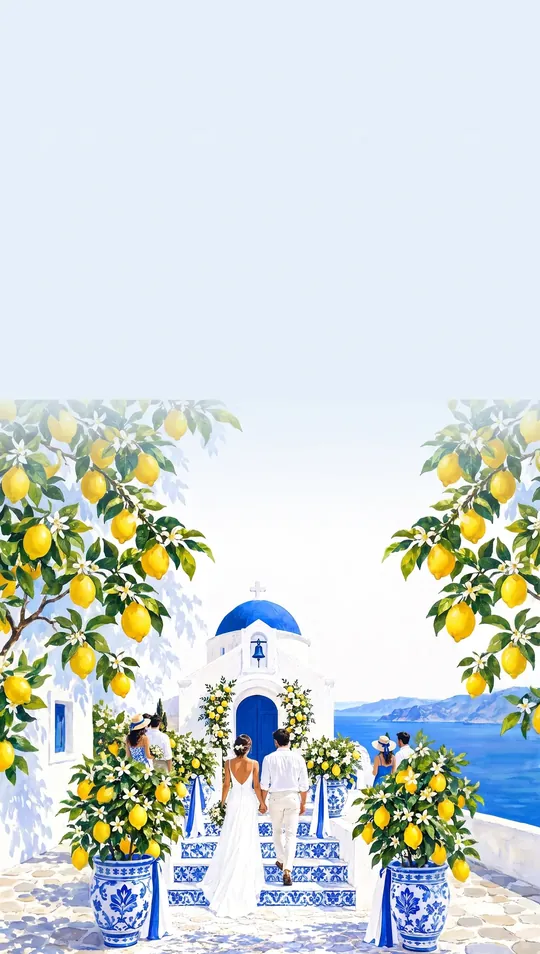
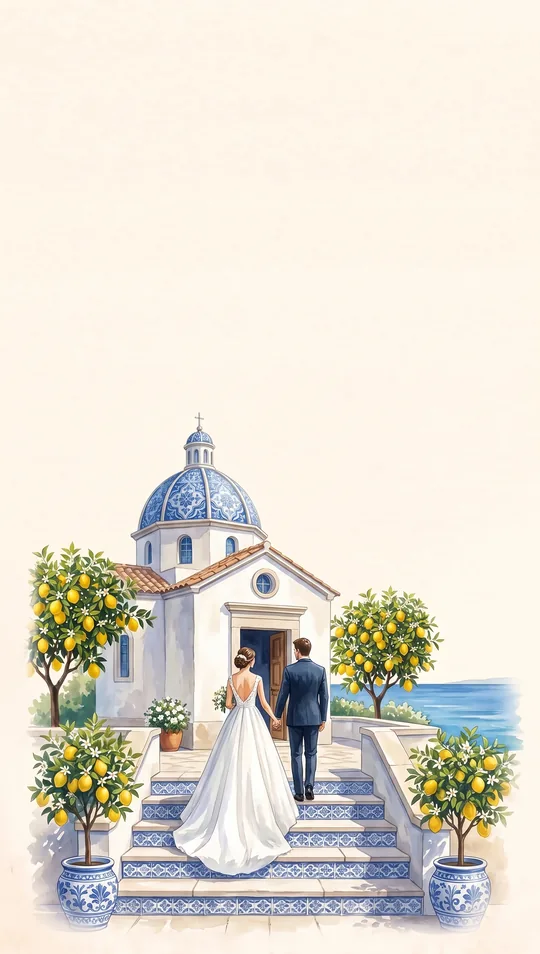
Décors sans zoom ni coupure : l'image garde la taille de l'écran, quatre décors redessinés d'un seul tenant
Le cadre de chaque scène (plus haut que l'écran pour le fondu) agrandissait l'image d'environ 1,8× : fitBg() et cpLayout() dimensionnent maintenant l'image sur l'écran et remplissent la bande de fondu par sa première bande étirée. Azulejos 1 et 2, Gravure 4 et Pop 4 n'ont plus de coupure droite. Aperçu : plus de ligne blanche entre deux écrans ; compte à rebours à la fin par défaut. Images en ?v=4.

Claude-Session: https://claude.ai/code/session_01KTckPsB1UKNX1GK3a7Mxgg

diff --git a/business/landing/index.html b/business/landing/index.html
@@ -366,8 +366,10 @@
   .cp-bgs{position:absolute;left:0;right:0;top:0;z-index:0;background:#111}
   .cp-bg{position:absolute;left:0;right:0}
   .cp-bg i{position:sticky;top:0;display:block;width:100%;height:100%;background:center/cover no-repeat}
+  /* comme le moteur (.bg::before) : la première bande de l'image, étirée, remplit la bande de fondu ; l'image garde la taille de l'écran */
+  .cp-bg i::before{content:'';position:absolute;left:0;right:0;top:0;height:var(--strip,0px);background:var(--img) center top/var(--bs,cover) no-repeat;transform:scaleY(-1)}
   .cp-phone .pv-scroll{position:absolute;inset:0;z-index:1}
-  .cp-phone .pv-sc{padding-top:14%;background:none;will-change:opacity,transform;z-index:1}
+  .cp-phone .pv-sc{padding-top:14%;background:none;will-change:opacity,transform;z-index:1;border-top:0} /* sans la bordure des sections de la vitrine : elle traçait une ligne entre deux écrans */
   .cp-phone .pv-sc .nm{margin:14px 0 10px}
   .cp-phone .pv-sc .tx{font-size:17px}
   .cd{display:flex;justify-content:center;gap:16px;margin-top:24px}
@@ -1002,7 +1004,7 @@
   document.getElementById('contGrid').innerHTML=LONGS.map(l=>`<a class="cont" href="/d/${l.slug}/" target="_blank" rel="noopener"><div class="pic"><img src="img/long/${l.k}/thumb.webp" alt="${esc('Le faire-part '+THEMES[l.k].name+' : '+l.alt)}" loading="lazy" width="480" height="768"></div><div class="txt"><b>${esc(THEMES[l.k].name)}</b><span>${esc(l.couple+' · '+l.desc)}</span><em>Ouvrir l'exemple →</em></div></a>`).join('');
   const CREAS=LONGS.map(l=>{ const t=THEMES[l.k]; return Object.assign({},l,{kind:'long',label:t.name,desc:l.couple+' · '+l.desc,href:'/d/'+l.slug+'/',tag:t.name,font:t.font,size:t.size,italic:t.italic,upper:t.upper,stack:t.stack,img:()=>`img/reel/long-${l.k}.webp`}); });
   KEYS.forEach(k=>{ const t=THEMES[k], d=DEMOS0.find(x=>x.theme===k&&x.slug!=='yasmine-karim'&&x.layout!=='long');
-    CREAS.push(Object.assign({},t,{kind:'pages',k,label:t.name,desc:(t.style!==t.name?t.style+' · ':'')+t.short,href:d?'/d/'+d.slug+'/':'',tag:t.name,img:i=>`img/themes/${k}-${i}.webp?v=3`})); });
+    CREAS.push(Object.assign({},t,{kind:'pages',k,label:t.name,desc:(t.style!==t.name?t.style+' · ':'')+t.short,href:d?'/d/'+d.slug+'/':'',tag:t.name,img:i=>`img/themes/${k}-${i}.webp?v=4`})); });
   // notre faire-part reel : les vrais lieux du couple, peints et animes (demo Yasmine & Karim)
   CREAS.push({kind:'pages',k:'yk',label:'Yasmine & Karim',desc:'Leurs vrais lieux, peints et animés : mairie, salle, ville',href:'/d/yasmine-karim/',tag:'Lieux réels peints',
     couple:'Yasmine & Karim',font:'"Great Vibes",cursive',color:'#2c2114',ey:'#8a6a2c',tx:'#5a4632',light:true,img:i=>`img/reel/yk-${i}.webp`,
@@ -1052,7 +1054,7 @@
     models.appendChild(m); };
   const yk=DEMOS.find(d=>d.slug==='yasmine-karim');
   if(yk) card(yk,THEMES.nuits,'Notre faire-part réel','Peinture','Lieux réels peints et animés',yk.thumb,'');
-  KEYS.forEach(k=>{ const t=THEMES[k], d=DEMOS.find(x=>x.theme===k&&x.slug!=='yasmine-karim'&&x.layout!=='long'); if(d) card(d,t,t.name,t.style,t.style,`img/themes/${k}-1.webp?v=3`,`img/themes/${k}-2.webp?v=3`); });
+  KEYS.forEach(k=>{ const t=THEMES[k], d=DEMOS.find(x=>x.theme===k&&x.slug!=='yasmine-karim'&&x.layout!=='long'); if(d) card(d,t,t.name,t.style,t.style,`img/themes/${k}-1.webp?v=4`,`img/themes/${k}-2.webp?v=4`); });
   const sm=document.createElement('div'); sm.className='model'; sm.dataset.style='*'; sm.innerHTML='<div class="pic"><span class="soon">Votre thème</span></div><div class="meta"><div><h3>Sur-mesure</h3><p class="style">Couture</p><p>Un univers rien qu\'à vous.</p></div></div>'; models.appendChild(sm);
   const STYLES=['Tous',...new Set(KEYS.map(k=>THEMES[k].style))];
   STYLES.forEach((st,i)=>{ const b=document.createElement('button'); b.type='button'; b.className='chip'; b.textContent=st; b.setAttribute('aria-pressed',i===0);
@@ -1062,7 +1064,7 @@
   /* composer : prenoms, date, style, palette, police -> apercu en direct */
   const PALS=[{id:'or',name:'Or & ivoire',c:'#b8975a'},{id:'sauge',name:'Sauge',c:'#7d9275'},{id:'terracotta',name:'Terracotta',c:'#c0643f'},{id:'nuit',name:'Bleu nuit',c:'#2e4a7d'},{id:'rose',name:'Rose poudré',c:'#d59aa3'}];
   const FONTS=[{id:'theme',name:'Du thème'},{id:'script',name:'Calligraphie',css:'"Great Vibes",cursive'},{id:'classique',name:'Classique',css:'"Playfair Display",Georgia,serif',italic:true},{id:'moderne',name:'Moderne',css:'"Jost",sans-serif',upper:true},{id:'deco',name:'Art déco',css:'"Limelight",serif'}];
-  const C={k:'conte',pal:'or',font:'theme',op:'env',cd:'debut',rvl:'non',x:new Set(),
+  const C={k:'conte',pal:'or',font:'theme',op:'env',cd:'fin',rvl:'non',x:new Set(),
     ev:[{name:'La cérémonie',time:'15:00',place:'Mairie du 11e',bg:'scene',lieu:'mairie'},{name:'La fête',time:'19:30',place:'Domaine des Roses',bg:'scene',lieu:'salle'}]};
   // les lieux déjà dessinés dans chaque thème (img/lieux/<thème>-<lieu>.webp) ; « fond » = le décor des écrans simples
   const LIEUX=[{id:'mairie',name:'Mairie'},{id:'eglise',name:'Église'},{id:'salle',name:'Salle'},{id:'jardin',name:'Jardin'},{id:'plage',name:'Plage'}];
@@ -1120,7 +1122,10 @@
     bgs.style.height=sc.scrollHeight+'px';
     cpRuns.forEach((r,ri)=>{ const L=layers[ri]; if(!L) return; const B=L.firstElementChild, top=secs[r.a].offsetTop, bot=secs[r.b].offsetTop+secs[r.b].offsetHeight;
       const t=ri>0?top-ov:top; L.style.top=t+'px'; L.style.height=(bot-t)+'px'; B.style.height=(ri>0?h+ov:h)+'px'; B.style.top=(ri>0?-ov:0)+'px';
-      const m=ri>0?`linear-gradient(to bottom,transparent 0,#000 ${ov}px)`:''; B.style.webkitMaskImage=m; B.style.maskImage=m; });
+      const m=ri>0?`linear-gradient(to bottom,transparent 0,#000 ${ov}px)`:''; B.style.webkitMaskImage=m; B.style.maskImage=m;
+      // taille de l'écran, pas du cadre agrandi (sinon zoom ~1,8×) : même calcul que fitBg() dans invite.js
+      const bw=Math.ceil(Math.max(sc.clientWidth,h*.566)), y=Math.round((ri>0?ov:0)+(h-bw/.566)/2);
+      B.style.backgroundSize=bw+'px auto'; B.style.backgroundPosition=`center ${y}px`; B.style.setProperty('--bs',`${bw}px ${Math.round(Math.max(1,y)/.015)}px`); B.style.setProperty('--strip',Math.max(0,y)+'px'); });
   }
   addEventListener('resize',cpLayout); addEventListener('load',cpLayout);
   // défilement libre, sans calage ni fondu des textes : comme le vrai faire-part (invite.js)
@@ -1151,7 +1156,7 @@
     const page=(img,mode,inner,extra)=>{ const dk=mode==='dark', lt=t.light&&!dk;
       const c={nm:lt?t.color:'#fff',ey:lt?(t.ey||t.color):'#fff',tx:lt?(t.tx||t.color):'#fff'};
       // un numéro = scène du thème ; un nom = lieu de la bibliothèque, ou « fond » pour un écran simple
-      const src=typeof img==='number'?`img/themes/${C.k}-${img}.webp?v=3`:`img/lieux/${C.k}-${img}.webp`;
+      const src=typeof img==='number'?`img/themes/${C.k}-${img}.webp?v=4`:`img/lieux/${C.k}-${img}.webp`;
       return {lt,c,html:h=>`<section class="pv-sc${lt?' light':''}" data-img="${esc(src)}" style="${esc(extra||'')}">${h(c)}</section>`}; };
     const pages=[], rv=C.rvl!=='non'?C.rvl:null;
     // 1. prenoms + date (+ compte a rebours au debut)
@@ -1186,7 +1191,7 @@
     const sc=$('cpScroll'), st=sc.scrollTop; sc.innerHTML='<div class="cp-bgs" id="cpBgs" aria-hidden="true"></div>'+pages.join(''); sc.scrollTop=st; tick();
     // décors : un cadre par suite de pages qui partagent la même image (comme les « runs » du moteur), image collante dedans
     cpRuns=[]; [...sc.querySelectorAll('.pv-sc')].forEach((s,i)=>{ const r=cpRuns[cpRuns.length-1]; if(r&&r.img===s.dataset.img) r.b=i; else cpRuns.push({img:s.dataset.img,a:i,b:i}); });
-    $('cpBgs').innerHTML=cpRuns.map(r=>`<div class="cp-bg"><i style="background-image:url('${esc(r.img)}')"></i></div>`).join('');
+    $('cpBgs').innerHTML=cpRuns.map(r=>`<div class="cp-bg"><i style="background-image:url('${esc(r.img)}');--img:url('${esc(r.img)}')"></i></div>`).join('');
     cpLayout();
     { const h=sc.querySelector('.cp-rvl'); if(h&&window.SceauReveal) SceauReveal.mount(h,{kind:rv,date:d,pal:p.c,light:t.light&&t.scenes[0][4]!=='dark',scope:h.parentNode}); }
     $('fOpen').value=OPENS.find(o=>o.id===C.op).name; $('fCount').value=COUNTS.find(o=>o.id===C.cd).name; $('fReveal').value=REVEALS.find(o=>o.id===C.rvl).name; if($('cN1').value!==$('cN1').defaultValue||$('cN2').value!==$('cN2').defaultValue) $('fNames').value=n1+' & '+n2; $('fStyle').value=t.name; $('fPal').value=p.name; $('fFont').value=f.name; $('fScreens').value=EXTRAS.filter(x=>C.x.has(x.id)).map(x=>x.name).join(', ');

diff --git a/business/site/index.html b/business/site/index.html
@@ -366,8 +366,10 @@
   .cp-bgs{position:absolute;left:0;right:0;top:0;z-index:0;background:#111}
   .cp-bg{position:absolute;left:0;right:0}
   .cp-bg i{position:sticky;top:0;display:block;width:100%;height:100%;background:center/cover no-repeat}
+  /* comme le moteur (.bg::before) : la première bande de l'image, étirée, remplit la bande de fondu ; l'image garde la taille de l'écran */
+  .cp-bg i::before{content:'';position:absolute;left:0;right:0;top:0;height:var(--strip,0px);background:var(--img) center top/var(--bs,cover) no-repeat;transform:scaleY(-1)}
   .cp-phone .pv-scroll{position:absolute;inset:0;z-index:1}
-  .cp-phone .pv-sc{padding-top:14%;background:none;will-change:opacity,transform;z-index:1}
+  .cp-phone .pv-sc{padding-top:14%;background:none;will-change:opacity,transform;z-index:1;border-top:0} /* sans la bordure des sections de la vitrine : elle traçait une ligne entre deux écrans */
   .cp-phone .pv-sc .nm{margin:14px 0 10px}
   .cp-phone .pv-sc .tx{font-size:17px}
   .cd{display:flex;justify-content:center;gap:16px;margin-top:24px}
@@ -1002,7 +1004,7 @@
   document.getElementById('contGrid').innerHTML=LONGS.map(l=>`<a class="cont" href="/d/${l.slug}/" target="_blank" rel="noopener"><div class="pic"><img src="img/long/${l.k}/thumb.webp" alt="${esc('Le faire-part '+THEMES[l.k].name+' : '+l.alt)}" loading="lazy" width="480" height="768"></div><div class="txt"><b>${esc(THEMES[l.k].name)}</b><span>${esc(l.couple+' · '+l.desc)}</span><em>Ouvrir l'exemple →</em></div></a>`).join('');
   const CREAS=LONGS.map(l=>{ const t=THEMES[l.k]; return Object.assign({},l,{kind:'long',label:t.name,desc:l.couple+' · '+l.desc,href:'/d/'+l.slug+'/',tag:t.name,font:t.font,size:t.size,italic:t.italic,upper:t.upper,stack:t.stack,img:()=>`img/reel/long-${l.k}.webp`}); });
   KEYS.forEach(k=>{ const t=THEMES[k], d=DEMOS0.find(x=>x.theme===k&&x.slug!=='yasmine-karim'&&x.layout!=='long');
-    CREAS.push(Object.assign({},t,{kind:'pages',k,label:t.name,desc:(t.style!==t.name?t.style+' · ':'')+t.short,href:d?'/d/'+d.slug+'/':'',tag:t.name,img:i=>`img/themes/${k}-${i}.webp?v=3`})); });
+    CREAS.push(Object.assign({},t,{kind:'pages',k,label:t.name,desc:(t.style!==t.name?t.style+' · ':'')+t.short,href:d?'/d/'+d.slug+'/':'',tag:t.name,img:i=>`img/themes/${k}-${i}.webp?v=4`})); });
   // notre faire-part reel : les vrais lieux du couple, peints et animes (demo Yasmine & Karim)
   CREAS.push({kind:'pages',k:'yk',label:'Yasmine & Karim',desc:'Leurs vrais lieux, peints et animés : mairie, salle, ville',href:'/d/yasmine-karim/',tag:'Lieux réels peints',
     couple:'Yasmine & Karim',font:'"Great Vibes",cursive',color:'#2c2114',ey:'#8a6a2c',tx:'#5a4632',light:true,img:i=>`img/reel/yk-${i}.webp`,
@@ -1052,7 +1054,7 @@
     models.appendChild(m); };
   const yk=DEMOS.find(d=>d.slug==='yasmine-karim');
   if(yk) card(yk,THEMES.nuits,'Notre faire-part réel','Peinture','Lieux réels peints et animés',yk.thumb,'');
-  KEYS.forEach(k=>{ const t=THEMES[k], d=DEMOS.find(x=>x.theme===k&&x.slug!=='yasmine-karim'&&x.layout!=='long'); if(d) card(d,t,t.name,t.style,t.style,`img/themes/${k}-1.webp?v=3`,`img/themes/${k}-2.webp?v=3`); });
+  KEYS.forEach(k=>{ const t=THEMES[k], d=DEMOS.find(x=>x.theme===k&&x.slug!=='yasmine-karim'&&x.layout!=='long'); if(d) card(d,t,t.name,t.style,t.style,`img/themes/${k}-1.webp?v=4`,`img/themes/${k}-2.webp?v=4`); });
   const sm=document.createElement('div'); sm.className='model'; sm.dataset.style='*'; sm.innerHTML='<div class="pic"><span class="soon">Votre thème</span></div><div class="meta"><div><h3>Sur-mesure</h3><p class="style">Couture</p><p>Un univers rien qu\'à vous.</p></div></div>'; models.appendChild(sm);
   const STYLES=['Tous',...new Set(KEYS.map(k=>THEMES[k].style))];
   STYLES.forEach((st,i)=>{ const b=document.createElement('button'); b.type='button'; b.className='chip'; b.textContent=st; b.setAttribute('aria-pressed',i===0);
@@ -1062,7 +1064,7 @@
   /* composer : prenoms, date, style, palette, police -> apercu en direct */
   const PALS=[{id:'or',name:'Or & ivoire',c:'#b8975a'},{id:'sauge',name:'Sauge',c:'#7d9275'},{id:'terracotta',name:'Terracotta',c:'#c0643f'},{id:'nuit',name:'Bleu nuit',c:'#2e4a7d'},{id:'rose',name:'Rose poudré',c:'#d59aa3'}];
   const FONTS=[{id:'theme',name:'Du thème'},{id:'script',name:'Calligraphie',css:'"Great Vibes",cursive'},{id:'classique',name:'Classique',css:'"Playfair Display",Georgia,serif',italic:true},{id:'moderne',name:'Moderne',css:'"Jost",sans-serif',upper:true},{id:'deco',name:'Art déco',css:'"Limelight",serif'}];
-  const C={k:'conte',pal:'or',font:'theme',op:'env',cd:'debut',rvl:'non',x:new Set(),
+  const C={k:'conte',pal:'or',font:'theme',op:'env',cd:'fin',rvl:'non',x:new Set(),
     ev:[{name:'La cérémonie',time:'15:00',place:'Mairie du 11e',bg:'scene',lieu:'mairie'},{name:'La fête',time:'19:30',place:'Domaine des Roses',bg:'scene',lieu:'salle'}]};
   // les lieux déjà dessinés dans chaque thème (img/lieux/<thème>-<lieu>.webp) ; « fond » = le décor des écrans simples
   const LIEUX=[{id:'mairie',name:'Mairie'},{id:'eglise',name:'Église'},{id:'salle',name:'Salle'},{id:'jardin',name:'Jardin'},{id:'plage',name:'Plage'}];
@@ -1120,7 +1122,10 @@
     bgs.style.height=sc.scrollHeight+'px';
     cpRuns.forEach((r,ri)=>{ const L=layers[ri]; if(!L) return; const B=L.firstElementChild, top=secs[r.a].offsetTop, bot=secs[r.b].offsetTop+secs[r.b].offsetHeight;
       const t=ri>0?top-ov:top; L.style.top=t+'px'; L.style.height=(bot-t)+'px'; B.style.height=(ri>0?h+ov:h)+'px'; B.style.top=(ri>0?-ov:0)+'px';
-      const m=ri>0?`linear-gradient(to bottom,transparent 0,#000 ${ov}px)`:''; B.style.webkitMaskImage=m; B.style.maskImage=m; });
+      const m=ri>0?`linear-gradient(to bottom,transparent 0,#000 ${ov}px)`:''; B.style.webkitMaskImage=m; B.style.maskImage=m;
+      // taille de l'écran, pas du cadre agrandi (sinon zoom ~1,8×) : même calcul que fitBg() dans invite.js
+      const bw=Math.ceil(Math.max(sc.clientWidth,h*.566)), y=Math.round((ri>0?ov:0)+(h-bw/.566)/2);
+      B.style.backgroundSize=bw+'px auto'; B.style.backgroundPosition=`center ${y}px`; B.style.setProperty('--bs',`${bw}px ${Math.round(Math.max(1,y)/.015)}px`); B.style.setProperty('--strip',Math.max(0,y)+'px'); });
   }
   addEventListener('resize',cpLayout); addEventListener('load',cpLayout);
   // défilement libre, sans calage ni fondu des textes : comme le vrai faire-part (invite.js)
@@ -1151,7 +1156,7 @@
     const page=(img,mode,inner,extra)=>{ const dk=mode==='dark', lt=t.light&&!dk;
       const c={nm:lt?t.color:'#fff',ey:lt?(t.ey||t.color):'#fff',tx:lt?(t.tx||t.color):'#fff'};
       // un numéro = scène du thème ; un nom = lieu de la bibliothèque, ou « fond » pour un écran simple
-      const src=typeof img==='number'?`img/themes/${C.k}-${img}.webp?v=3`:`img/lieux/${C.k}-${img}.webp`;
+      const src=typeof img==='number'?`img/themes/${C.k}-${img}.webp?v=4`:`img/lieux/${C.k}-${img}.webp`;
       return {lt,c,html:h=>`<section class="pv-sc${lt?' light':''}" data-img="${esc(src)}" style="${esc(extra||'')}">${h(c)}</section>`}; };
     const pages=[], rv=C.rvl!=='non'?C.rvl:null;
     // 1. prenoms + date (+ compte a rebours au debut)
@@ -1186,7 +1191,7 @@
     const sc=$('cpScroll'), st=sc.scrollTop; sc.innerHTML='<div class="cp-bgs" id="cpBgs" aria-hidden="true"></div>'+pages.join(''); sc.scrollTop=st; tick();
     // décors : un cadre par suite de pages qui partagent la même image (comme les « runs » du moteur), image collante dedans
     cpRuns=[]; [...sc.querySelectorAll('.pv-sc')].forEach((s,i)=>{ const r=cpRuns[cpRuns.length-1]; if(r&&r.img===s.dataset.img) r.b=i; else cpRuns.push({img:s.dataset.img,a:i,b:i}); });
-    $('cpBgs').innerHTML=cpRuns.map(r=>`<div class="cp-bg"><i style="background-image:url('${esc(r.img)}')"></i></div>`).join('');
+    $('cpBgs').innerHTML=cpRuns.map(r=>`<div class="cp-bg"><i style="background-image:url('${esc(r.img)}');--img:url('${esc(r.img)}')"></i></div>`).join('');
     cpLayout();
     { const h=sc.querySelector('.cp-rvl'); if(h&&window.SceauReveal) SceauReveal.mount(h,{kind:rv,date:d,pal:p.c,light:t.light&&t.scenes[0][4]!=='dark',scope:h.parentNode}); }
     $('fOpen').value=OPENS.find(o=>o.id===C.op).name; $('fCount').value=COUNTS.find(o=>o.id===C.cd).name; $('fReveal').value=REVEALS.find(o=>o.id===C.rvl).name; if($('cN1').value!==$('cN1').defaultValue||$('cN2').value!==$('cN2').defaultValue) $('fNames').value=n1+' & '+n2; $('fStyle').value=t.name; $('fPal').value=p.name; $('fFont').value=f.name; $('fScreens').value=EXTRAS.filter(x=>C.x.has(x.id)).map(x=>x.name).join(', ');

diff --git a/business/landing/invite.js b/business/landing/invite.js
@@ -79,7 +79,7 @@
   const base=up?30:/Limelight|Cinzel/.test(fam1)?38:52;
   const nmCss=(k,col)=>`font-family:${fam1};font-style:${ital?'italic':'normal'};text-transform:${up?'uppercase':'none'};letter-spacing:${up?'.12em':'0'};font-weight:${up?300:400};font-size:clamp(${Math.round(base*k*.72)}px,${(base*k/16.5).toFixed(2)}vh,${Math.round(base*k*1.1)}px);color:${col}`;
   // ?v= : à augmenter quand on remplace des décors, pour que les navigateurs ne gardent pas l'ancienne image
-  const IMGV=3, img=n=>`/img/hd/${I.theme}-${n}.webp?v=${IMGV}`;
+  const IMGV=4, img=n=>`/img/hd/${I.theme}-${n}.webp?v=${IMGV}`;
   const isDark=n=>(T.scenes[n-1]||[])[4]==='dark';
 
   /* ---------- icônes ---------- */
@@ -292,7 +292,7 @@
   const mu=I.music||T.music;
   const app=document.createElement('div'); app.id='app';
   app.innerHTML=`
-    <div class="sc${LG?' sc-long':''}" id="sc"><div class="bgs" id="bgs">${LG?'':runs.map(r=>`<div class="bgl${r.lt?' light':''}"><div class="bg" style="background-image:url('${img(r.n)}')"></div></div>`).join('')}</div><div class="fxw"><canvas id="fx"></canvas></div>${LG?longHtml():pages.map(p=>p.html).join('')}</div>
+    <div class="sc${LG?' sc-long':''}" id="sc"><div class="bgs" id="bgs">${LG?'':runs.map(r=>`<div class="bgl${r.lt?' light':''}"><div class="bg" style="background-image:url('${img(r.n)}');--img:url('${img(r.n)}')"></div></div>`).join('')}</div><div class="fxw"><canvas id="fx"></canvas></div>${LG?longHtml():pages.map(p=>p.html).join('')}</div>
     ${LG&&I.demo?`<a class="lg-want" href="/#prix">${S.want}</a>`:''}
     ${I.demo?`<a class="demo-tag" href="/#demos">${S.demo} · Sceau</a>`:''}
     ${mu&&mu!=='none'?`<button type="button" class="snd" id="snd" aria-label="Musique">${ic.note.replace('<svg','<svg class="on"')}${ic.mute.replace('<svg','<svg class="off"')}</button><audio id="bgm" src="${esc(I.musicUrl||'/music/'+mu+'.mp3')}" loop preload="none"></audio>`:''}
@@ -331,6 +331,14 @@
      n'est étirée sur plusieurs écrans (jamais de zoom). Les positions sont recalculées à chaque changement de
      taille (une page fait un écran, une page « tall » davantage). */
   const OVK=.45;
+  // taille du décor : celle de l'écran (cover sur l'écran, pas sur le cadre agrandi de la bande de fondu, sinon l'image
+  // apparaît zoomée ~1,8×). Image centrée sur l'écran ; au-dessus, sa première bande étirée remplit la bande de fondu.
+  const IR=.566; // largeur / hauteur des décors (1080 × 1909)
+  function fitBg(B,w,h,ov){
+    const bw=Math.ceil(Math.max(w,h*IR)), ih=bw/IR, y=Math.round(ov+(h-ih)/2);
+    B.style.backgroundSize=bw+'px auto'; B.style.backgroundPosition=`center ${y}px`;
+    B.style.setProperty('--bs',`${bw}px ${Math.round(Math.max(1,y)/.015)}px`); B.style.setProperty('--strip',Math.max(0,y)+'px');
+  }
   function layoutStrip(){
     const h=sc.clientHeight; fxc.style.height=h+'px'; if(LG) return;
     const ov=Math.round(h*OVK);
@@ -339,6 +347,7 @@
       const top=secs[r.a].offsetTop, bot=secs[r.b].offsetTop+secs[r.b].offsetHeight, L=layers[ri], B=L.firstElementChild;
       const t=ri>0?top-ov:top; L.style.top=t+'px'; L.style.height=(bot-t)+'px';
       B.style.height=(ri>0?h+ov:h)+'px'; B.style.top=(ri>0?-ov:0)+'px';
+      fitBg(B,sc.clientWidth,h,ri>0?ov:0);
       const m=ri>0?`linear-gradient(to bottom,transparent 0,#000 ${ov}px)`:''; B.style.webkitMaskImage=m; B.style.maskImage=m;
     });
   }

diff --git a/business/site/invite.js b/business/site/invite.js
@@ -79,7 +79,7 @@
   const base=up?30:/Limelight|Cinzel/.test(fam1)?38:52;
   const nmCss=(k,col)=>`font-family:${fam1};font-style:${ital?'italic':'normal'};text-transform:${up?'uppercase':'none'};letter-spacing:${up?'.12em':'0'};font-weight:${up?300:400};font-size:clamp(${Math.round(base*k*.72)}px,${(base*k/16.5).toFixed(2)}vh,${Math.round(base*k*1.1)}px);color:${col}`;
   // ?v= : à augmenter quand on remplace des décors, pour que les navigateurs ne gardent pas l'ancienne image
-  const IMGV=3, img=n=>`/img/hd/${I.theme}-${n}.webp?v=${IMGV}`;
+  const IMGV=4, img=n=>`/img/hd/${I.theme}-${n}.webp?v=${IMGV}`;
   const isDark=n=>(T.scenes[n-1]||[])[4]==='dark';
 
   /* ---------- icônes ---------- */
@@ -292,7 +292,7 @@
   const mu=I.music||T.music;
   const app=document.createElement('div'); app.id='app';
   app.innerHTML=`
-    <div class="sc${LG?' sc-long':''}" id="sc"><div class="bgs" id="bgs">${LG?'':runs.map(r=>`<div class="bgl${r.lt?' light':''}"><div class="bg" style="background-image:url('${img(r.n)}')"></div></div>`).join('')}</div><div class="fxw"><canvas id="fx"></canvas></div>${LG?longHtml():pages.map(p=>p.html).join('')}</div>
+    <div class="sc${LG?' sc-long':''}" id="sc"><div class="bgs" id="bgs">${LG?'':runs.map(r=>`<div class="bgl${r.lt?' light':''}"><div class="bg" style="background-image:url('${img(r.n)}');--img:url('${img(r.n)}')"></div></div>`).join('')}</div><div class="fxw"><canvas id="fx"></canvas></div>${LG?longHtml():pages.map(p=>p.html).join('')}</div>
     ${LG&&I.demo?`<a class="lg-want" href="/#prix">${S.want}</a>`:''}
     ${I.demo?`<a class="demo-tag" href="/#demos">${S.demo} · Sceau</a>`:''}
     ${mu&&mu!=='none'?`<button type="button" class="snd" id="snd" aria-label="Musique">${ic.note.replace('<svg','<svg class="on"')}${ic.mute.replace('<svg','<svg class="off"')}</button><audio id="bgm" src="${esc(I.musicUrl||'/music/'+mu+'.mp3')}" loop preload="none"></audio>`:''}
@@ -331,6 +331,14 @@
      n'est étirée sur plusieurs écrans (jamais de zoom). Les positions sont recalculées à chaque changement de
      taille (une page fait un écran, une page « tall » davantage). */
   const OVK=.45;
+  // taille du décor : celle de l'écran (cover sur l'écran, pas sur le cadre agrandi de la bande de fondu, sinon l'image
+  // apparaît zoomée ~1,8×). Image centrée sur l'écran ; au-dessus, sa première bande étirée remplit la bande de fondu.
+  const IR=.566; // largeur / hauteur des décors (1080 × 1909)
+  function fitBg(B,w,h,ov){
+    const bw=Math.ceil(Math.max(w,h*IR)), ih=bw/IR, y=Math.round(ov+(h-ih)/2);
+    B.style.backgroundSize=bw+'px auto'; B.style.backgroundPosition=`center ${y}px`;
+    B.style.setProperty('--bs',`${bw}px ${Math.round(Math.max(1,y)/.015)}px`); B.style.setProperty('--strip',Math.max(0,y)+'px');
+  }
   function layoutStrip(){
     const h=sc.clientHeight; fxc.style.height=h+'px'; if(LG) return;
     const ov=Math.round(h*OVK);
@@ -339,6 +347,7 @@
       const top=secs[r.a].offsetTop, bot=secs[r.b].offsetTop+secs[r.b].offsetHeight, L=layers[ri], B=L.firstElementChild;
       const t=ri>0?top-ov:top; L.style.top=t+'px'; L.style.height=(bot-t)+'px';
       B.style.height=(ri>0?h+ov:h)+'px'; B.style.top=(ri>0?-ov:0)+'px';
+      fitBg(B,sc.clientWidth,h,ri>0?ov:0);
       const m=ri>0?`linear-gradient(to bottom,transparent 0,#000 ${ov}px)`:''; B.style.webkitMaskImage=m; B.style.maskImage=m;
     });
   }

diff --git a/business/landing/invite.css b/business/landing/invite.css
@@ -42,6 +42,10 @@ a{color:inherit}
 .bgs{position:absolute;left:0;right:0;top:0;z-index:0;background:#111}
 .bgl{position:absolute;left:0;right:0}
 .bg{position:sticky;top:0;display:block;width:100%;height:100%;background:center/cover no-repeat;transform:scale(1.015);transition:transform 9s cubic-bezier(.2,.6,.3,1)}
+/* l'image garde la taille de l'écran (fitBg() règle --bs et la position) : la bande de fondu au-dessus d'elle est
+   remplie par la toute première bande de l'image (1,5 % de sa hauteur, son ciel) étirée vers le haut, retournée pour que
+   la jonction soit exacte. Un miroir de tout le haut faisait un pli sombre (le dégradé du ciel s'inversait). */
+.bg::before{content:'';position:absolute;left:0;right:0;top:0;height:var(--strip,0px);background:var(--img) center top/var(--bs,cover) no-repeat;transform:scaleY(-1)}
 .bgl.on .bg{transform:scale(1.04)}
 .pg{z-index:2}
 .pg>*{position:relative;z-index:2}

diff --git a/business/site/invite.css b/business/site/invite.css
@@ -42,6 +42,10 @@ a{color:inherit}
 .bgs{position:absolute;left:0;right:0;top:0;z-index:0;background:#111}
 .bgl{position:absolute;left:0;right:0}
 .bg{position:sticky;top:0;display:block;width:100%;height:100%;background:center/cover no-repeat;transform:scale(1.015);transition:transform 9s cubic-bezier(.2,.6,.3,1)}
+/* l'image garde la taille de l'écran (fitBg() règle --bs et la position) : la bande de fondu au-dessus d'elle est
+   remplie par la toute première bande de l'image (1,5 % de sa hauteur, son ciel) étirée vers le haut, retournée pour que
+   la jonction soit exacte. Un miroir de tout le haut faisait un pli sombre (le dégradé du ciel s'inversait). */
+.bg::before{content:'';position:absolute;left:0;right:0;top:0;height:var(--strip,0px);background:var(--img) center top/var(--bs,cover) no-repeat;transform:scaleY(-1)}
 .bgl.on .bg{transform:scale(1.04)}
 .pg{z-index:2}
 .pg>*{position:relative;z-index:2}

diff --git a/CLAUDE.md b/CLAUDE.md
@@ -115,6 +115,12 @@ faire-part, vitrine, aperçus, images d'aperçu WhatsApp (og.jpg), images géné
     (`layoutStrip()` dans invite.js, `cpLayout()` dans le configurateur) : une image par suite de pages de même
     scène, deux scènes voisines se chevauchent sur **45 %** d'un écran et se fondent par un masque en dégradé.
     Jamais un décor fixe derrière des pages qui glissent. Même règle dans l'aperçu du configurateur (`.pv-scroll`).
+    **Le décor garde la taille de l'écran** : le cadre d'une scène est plus haut que l'écran (bande de fondu de 45 %),
+    et un `cover` sur ce cadre agrandissait l'image d'environ 1,8× (« ça fait un zoom »). `fitBg()` (invite.js) et
+    `cpLayout()` dimensionnent l'image sur l'écran ; la bande de fondu au-dessus est remplie par la première bande de
+    l'image étirée (`::before`). Pas de miroir de tout le haut : il inversait le dégradé du ciel et faisait un pli.
+    Aucune image ne doit avoir de **coupure droite** (un arbre ou une bande qui s'arrête sur une ligne horizontale,
+    reste d'un collage) : on la redessine d'un seul tenant, en vignette sur le papier si besoin.
 19. **Tout bloc centré l'est explicitement.** Dans la mise en page continue, `.lg-hero-txt` n'est pas une colonne
     flex : une ligne `display:flex` (la date entre ses deux filets) s'y collait au bord gauche. Toujours vérifier le
     centrage sur une capture, à 390 px **et** à 440 px (la date tient alors sur une ligne).
